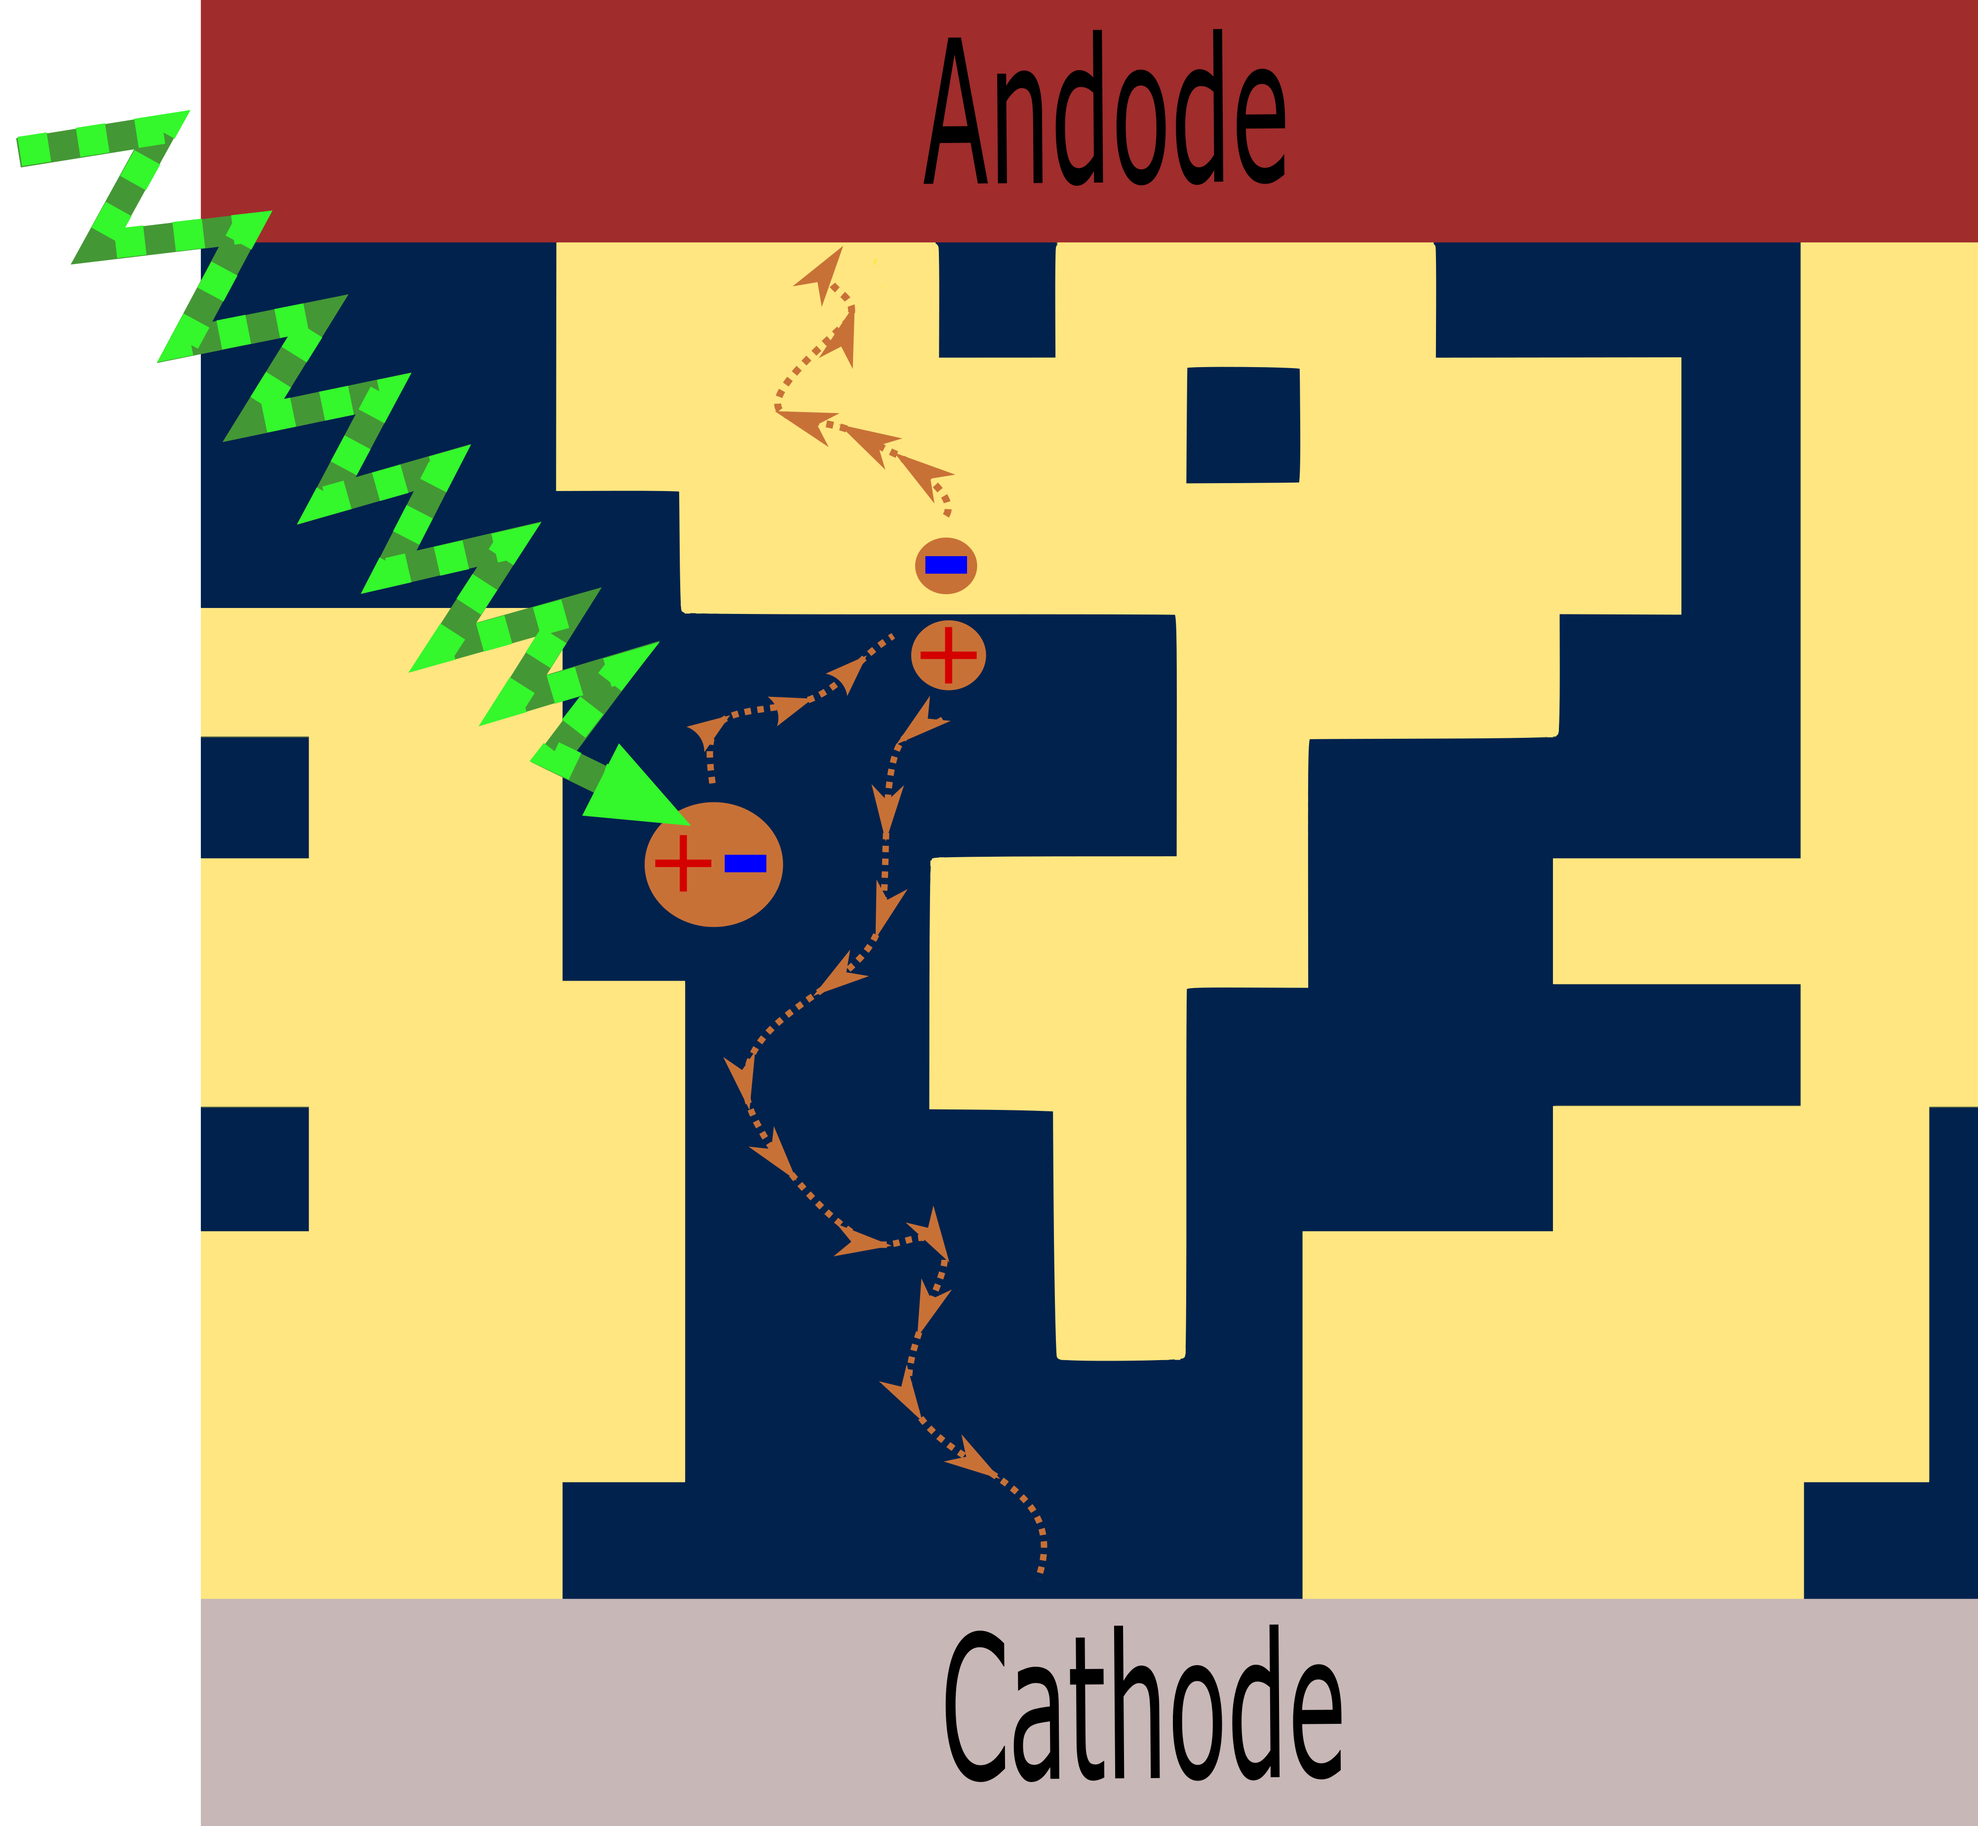
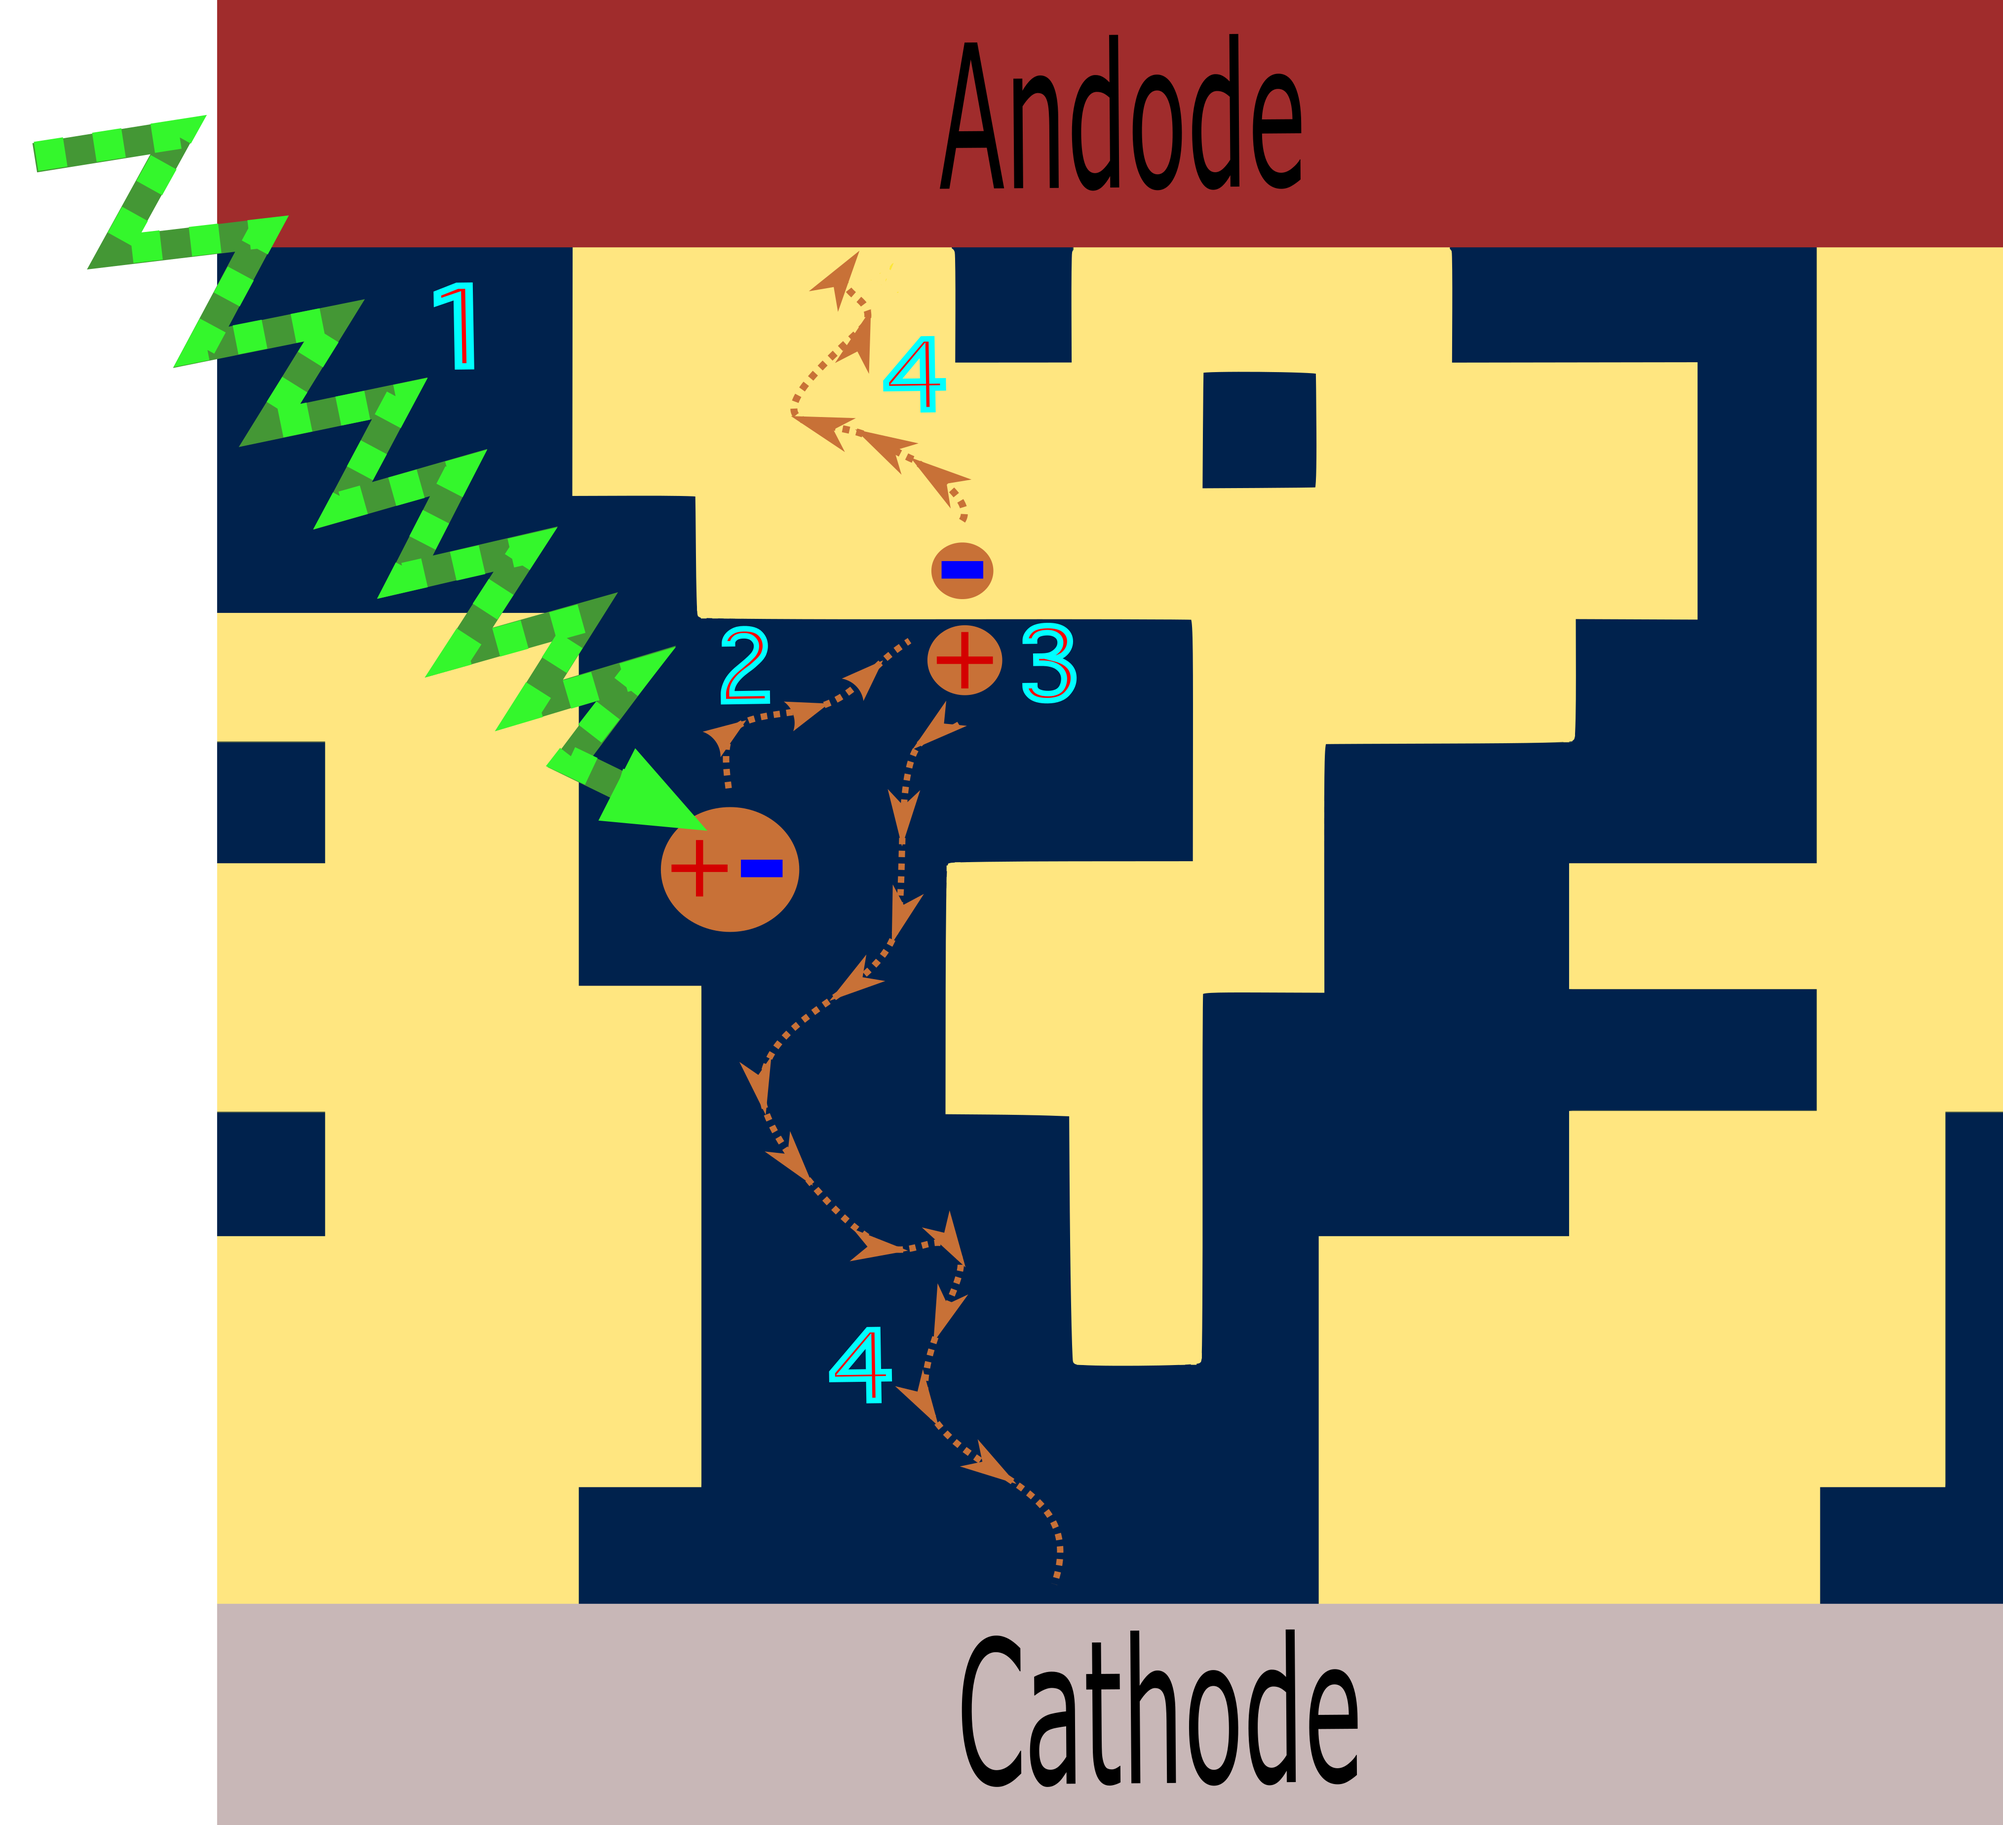
buncha stuff about BHJ. I hope Im not over desribing it but this is what i would want to read if i was reading about this for basicaally the first time

diff --git a/src/intro.tex b/src/intro.tex
@@ -69,16 +69,19 @@ is given by Coulombs law as follows:
 \end{align}
 
 where $k_{e}$ is Coulomb's constant and $e$ is charge of an electron. The relative permitivitty,
-$\epsilon_{r}$, of a material describes how readily a material
-will polarize in response to an electric field, relative to readily free space will polarize. In OPVs, a
-relative permitivitty of $~3$ means that this material is 3 times more polarizable than free space, which
-is not all that polariazable. And with that, the material occupying the space between electron and hole
-is not readily oreinting itself in the direction of the electric field created between them, which would
-oppose the Coulombic attraction. Silicon has a relative
-permitivitty of ~12. This bound electron-hole quasiparticle is refered to herein as an exciton.
+$\epsilon_{r}$, is a unitless quantity that describes a materials polarizability relative
+to that of free space. That is, relative
+permativity describes the readiness of a material
+to polarize in response to an electric field. A
+relative permitivitty of $~3$ in OPVs means that these materials are only 3 times more polarizable than free space, which
+is not all that polariazable. And, because the material occupying the space between electron and hole
+is not willing(or able?) to fight back against the electric field created between them, they stick together and behave as a quasipartcle. 
+This bound electron-hole quasiparticle is refered to herein as an exciton.
+
+[Silicon has a relative permitivitty of ~12. not sure in need this i think its kinda understood]
 
 This introduces a unique design challenge.
-To extract a charge from the device, the electron and hole
+To extract a charge from the device, the exciton
 must be coerced apart. This coercion can take place at the interface between donor and acceptor molecules,
 where the slight offset in energy levels creates a charge transfer state wherein it is more
 energetically favorable for the donor to undergo electron transfer with an adjacent acceptor than
@@ -95,9 +98,11 @@ into what is termed Bulk Heterojunction (BHJ) microstructure \cite{Tang1986c}.
 The interlocking phases of donor accepter molecules, ensure
 that an exciton will intersect with the boundary between accepter and donor domains, while also ensuring that
 there
-is a continuous escape route, albeit labyrinthine, for the charges to travel on their way to their respective
-electrodes. \ej{picture?} \ej{I didnt know if this meant real picture of bhj schematic but i made the latter
+is a continuous escape route, albeit labyrinthine, for the free charges to travel on their way to their respective
+electrodes. The schematic shown in \ref{bhj} shows a cartoonized BHJ device. \ej{I didnt know if this meant real picture of bhj schematic but i made the latter
 to refer to here as well as when i discuss the four stages of bhj}
+
+
 
 \begin{figure}
     \center
@@ -108,10 +113,27 @@ to refer to here as well as when i discuss the four stages of bhj}
     about until it intersectects the interface between donor and acceptor material domains. (3) The exciton is
     coerced apart by the energy offset between donor and acceptor molecules. 
     (4) The, now unbound,  hole and the electron are free to diffuse about until ther reach their respective
-    electrodes where they can be extracted}
+    electrodes where they can be extracted \cite{Fusella2019}}
     \label{bhj}
 \end{figure}
 
+As shown in \ref{bhj}, a BHJ active layer proceeds through the following four stages: photoabsorbtions, 
+exciton diffusion, charge transfer, and free charge diffusion \citet{Fusella2019}. When a photon is incedent on
+an organic photovoltaic material, if it intersects with a molecular segment whose 
+highest occupied molecular orbital (HOMO) has comprable energy levels to the photon, the energy can be absorbed via the promotion of
+an electron to the next energy level, the lowest unoccupied molecular orbital (LUMO). This forms an exciton as
+described above which then diffuse until it intersects the boundary. The excited electron would like to relax
+back into is lower energy level, but at the interface with the acceptor, it finds a better option. The
+acceptor's LUMO is engineered to sit between the energy of the donor's excited electrons energy level and the
+lower energy level. Because of this, the electron cascades down to the acceptors LUMO through a charge
+tranfer reaction. Finally the free charges can diffuse until they interect the electrode where it can be
+extracted. This is, of course, an ideal description. The are loss mechanisms at all four stages. 
+
+Engineering the active layer of an OSC materials presents distinct challenges and advantages at
+all four stages. 
+Our work is expressely related to stage four. That is, after the photon has been absorbed, creating and
+exciton that has diffused to the interface between donor and acceptor molecule, and the exciton has decoupled
+coulumbically.
 
 Reaching 17 \% effeciency in these devices required rigorous theory and time consuming chemical synthesis
 that unfolded over the course of three decades. \ej{How'd theory play a role?} 
@@ -122,12 +144,7 @@ We note that will motivate zero-field mobility as a relvant quantity in BHJ
 design, it could likely be informative accross all of the aforementioned applications. 
 
 
-BHJ OSC work in 4 steps . photoabsorbtions, exciton diffusion, CT , Charge diffusion. \citet{Fusella2019}. \ej{Nice- still on BHJ and explaining physics is good.}
-Engineering the active layer of an OSC from organic materials presents distinct challenges and advantages at
-all four stages. 
-Our work is expressely related to stage four. That is, after the photon has been absorbed, creating and
-exciton that has diffused to the interface between donor and acceptor molecule, and the exciton has decoupled
-coulumbically.\ej{Like above, a bit of whiplash. Maybe get through all this intro first, and THEN explain where our work fits in.} Now, with the free electron bouncing around in the acceptor domain (the hole in the donor) how
+\ej{Like above, a bit of whiplash. Maybe get through all this intro first, and THEN explain where our work fits in.} Now, with the free electron bouncing around in the acceptor domain (the hole in the donor) how
 quickly will it diffuse in that environement? This diffusivity, charge mobility, is what can be characterized in experiments and simulations and is one key metric for overall device efficiency.
 %using MorphCT.
 
